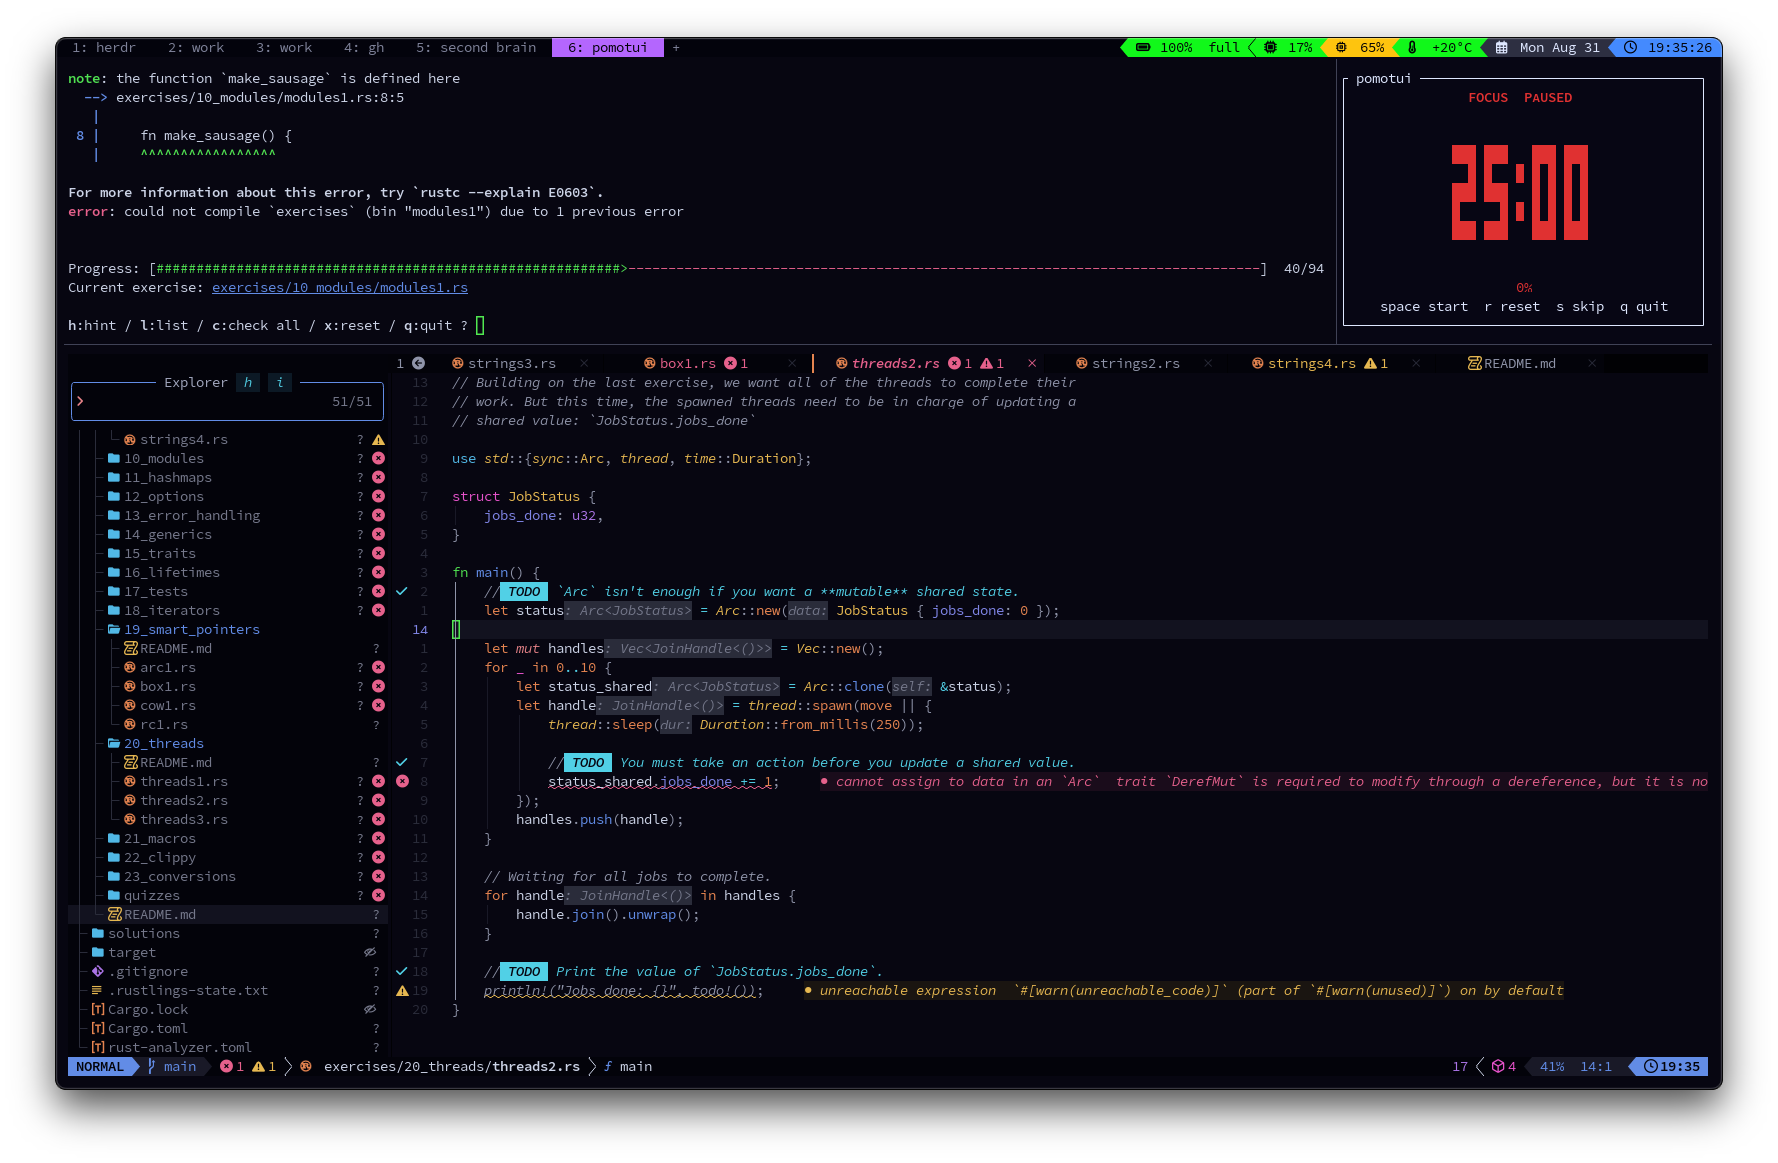
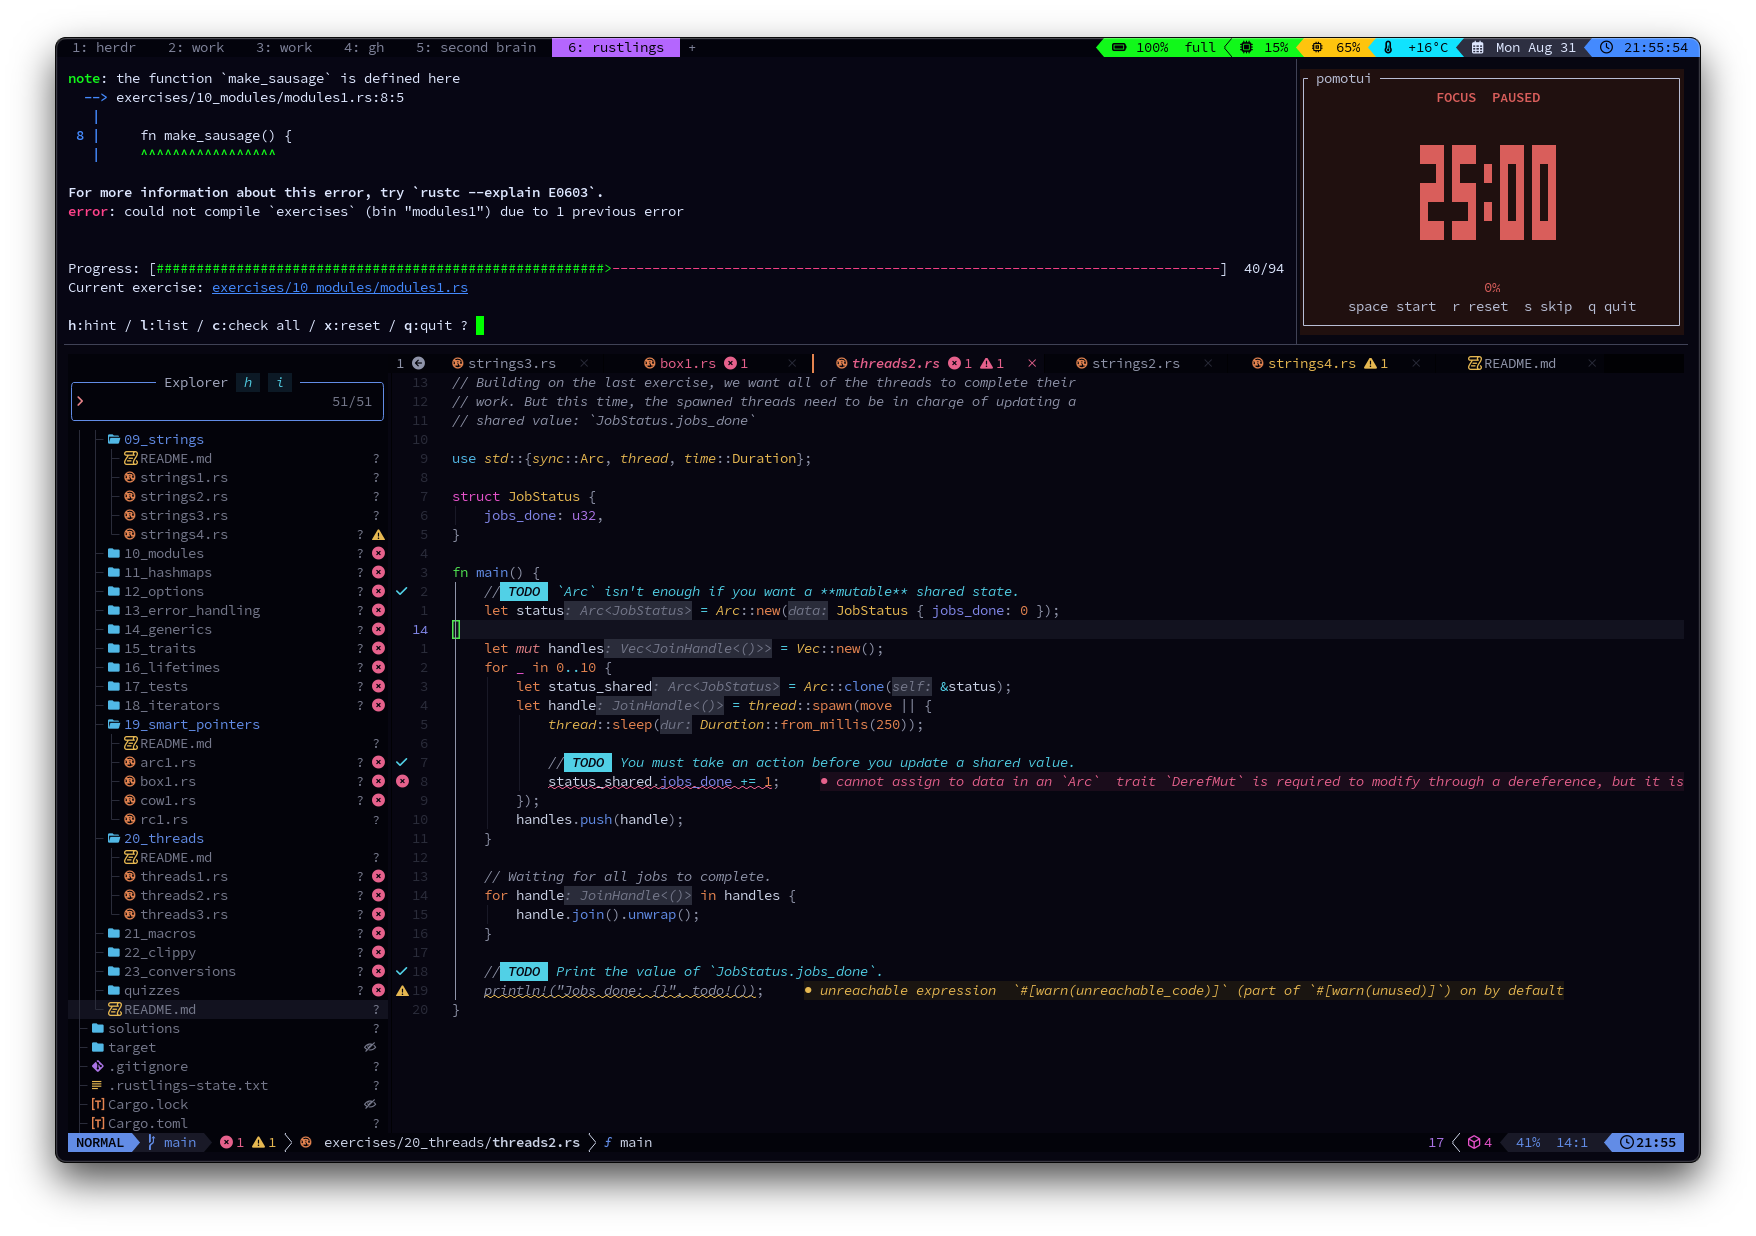
docs: retake the screenshot and the demo recording
Both captures showed the original red on the terminal's own background, so
they were three palettes out of date and predated the two gauge fixes. They
now show the current look: the red accent on the dark red phase background.

The demo caption drops the claim that the cycle is quick to watch. The
recording runs 42 seconds, which is long enough to show the flash and the
break that follows it, but not quick.

diff --git a/README.md b/README.md
@@ -13,8 +13,8 @@ window.
 ## Demo
 
 The clock rests at 00:00 for five seconds and blinks, then the next phase
-starts. This recording runs in `--debug` mode, so the flags count seconds and
-the whole cycle is quick to watch.
+starts. This recording runs in `--debug` mode, so the flags count seconds
+instead of minutes.
 
 ![pomotui counting down and flashing at the phase change](assets/demo.gif)
 
